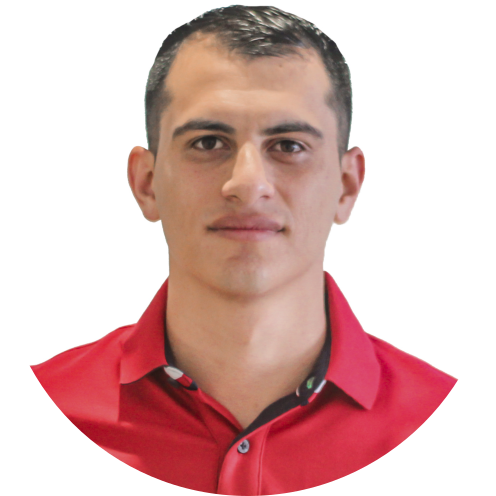
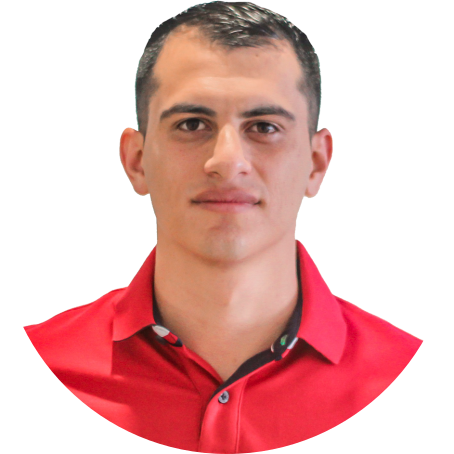
Update photo and certificate ufpso

Changed region(s): [[0.0308, 0.0, 0.9251, 1.0], [0.4626, 0.6476, 0.5242, 0.7093]]

diff --git a/css/style.css b/css/style.css
@@ -1,7 +1,7 @@
 * {
     margin: 0;
     padding: 0;
-    box-sizing: border-box; /*Hace que los valores de las propiedades se sumen para mantener siempre el ancho y el alto*/
+    box-sizing: border-box; 
 }
 
 body {
@@ -12,22 +12,20 @@ h1 {
     font-size: 50px;
 }
 
-/* Espacio de trabajo para menú, foto principal y demás elementos*/
 .contenedor {
-    width: 90%; /* toma  el porcentaje del ancho de la pantalla*/
-    max-width: 1400px; /* establece el ancho máximo de contenedor */
-    margin: auto; /* centra contenedor en la página con el ancho de 1500 */
-    overflow: hidden; /* No permite scroll horizontal en el caso de exceder el ancho de 1500 asignado */
+    width: 90%; 
+    max-width: 1400px; 
+    margin: auto; 
+    overflow: hidden; 
 }
 
-/* pseudoclase para lograr fijar el menú en la pate superior con position fixed */ 
 header::before {
     content: "";
     display: block;
     margin-bottom: 80px;
 }
 
-/* Menú de navegación */
+/* ################################## MENÚ DE NAVEGACIÓN ################################## */
 nav {
     width: 100%;
     height: 80px;
@@ -40,16 +38,15 @@ nav {
 }
 
 .nav {
-    display: flex; /* permita elementos al lado */
+    display: flex;
     height: 80px;
     width: 100%;
     align-items: center; 
-    /* padding: 0 40px; REVISAR BIEN */
 }
 
 .enlaces-header {
     font-weight: 300;
-    margin: auto; /* centra las opciones del menú */
+    margin: auto;
     transition: all ease-in-out .6s;
 }
 
@@ -83,16 +80,11 @@ nav {
     line-height: 80px;
 }
 
-
-
-/* títulos profesionales en la presentación de la foto */
 .titulospro {
-    /* display: block; REVISAR BIEN */
     text-align: left;    
     margin: 20px 0;
 }
 
-/* Imagen de perfil principal */
 .contenido-header {
     width: 80%;
     height: 600px;
@@ -109,8 +101,7 @@ nav {
     animation: ease-in animacion 0.5s; 
     margin-left: 50px;
 }   
-
-/* Animacion para la imagen */  
+ 
 @keyframes animacion {
     0% {
         transform: scale(0);
@@ -121,7 +112,6 @@ nav {
     }
 }
 
-/* Propiedades para el botón de perfil */ 
 .textos-header {
     margin: 0 0 0 30px;
 }
@@ -136,7 +126,7 @@ nav {
 .contenido-header a {
     margin: 28px 0 0 0;
     width: 150px;
-    display: inline-block; /* para asignar propiedades de bloque */
+    display: inline-block;
     background: #d03d3d;
     text-align: center;
     color: white;
@@ -161,15 +151,13 @@ nav {
     background: #f2f2f2;
 }
 
-/* fondo completo de los estudios */
 .content-educacion {
-    display: flex; /* los elementos tomen el espacio disponible para distribuirse */
-    flex-wrap: wrap; /* permitir controlar la direccion de los elementos hijos para que flyan en varias lineas */
+    display: flex; 
+    flex-wrap: wrap; 
     margin-bottom: 50px;
-    justify-content: space-around; /* los elementos repartirán el espacio sobrante de su contenedor de manera equitativa a sus alrededores, creando un espacio también a los bordes*/
+    justify-content: space-around; 
 }
 
-/* cada columna correspondiente a los estudios */
 .articulo {
     width: 23%;
     background: #fff;
@@ -393,9 +381,9 @@ footer {
     background: rgb(70, 70, 70);
     padding: 20px 0;
     padding-top: 30px;
-    overflow: hidden; /* Para evitar que se rompa en caso exceda el tamaño */
-    display: flex; /* un elemento flexible para alterar sus dimensiones y llenar el espacio disponible */ 
-    flex-wrap: wrap; /* permitir controlar la direccion de los elementos hijos */
+    overflow: hidden; 
+    display: flex; 
+    flex-wrap: wrap; 
     justify-content: space-evenly;
     margin: auto;
 }
@@ -466,13 +454,13 @@ footer {
 
 .social-media > a > i {
     font-size: 20px;
-    display: inline-block; /*los elementos block ocupan todo el espacio, inline para que estén seguidos*/
+    display: inline-block; 
     color: #fff;
     border: 1px solid #fff;
-    border-radius: 50%; /* hacerlo redondon */
-    width: 38px; /* hacerlo cuadrado para el efecto de border radius */
-    height: 38px; /* hacerlo cuadrado para el efecto de border radius */
-    line-height: 36px; /* para centrar */
+    border-radius: 50%; 
+    width: 38px; 
+    height: 38px; 
+    line-height: 36px; 
     cursor: pointer;
     margin-top: 20px;
     text-align: center;
@@ -610,13 +598,14 @@ footer {
 
     .contenido-header {
         width: 100%;
-        height: 550px;
+        height: 560px;
     }
 
     .contenido-header>img {
         width: 120px; 
         height: 120px;
         animation: ease-in animacion 0.5s; 
+        margin: 20px 0;
     }  
     
     .articulo, .experience, .certificate, .skills {

diff --git a/index.html b/index.html
@@ -108,7 +108,7 @@
                     <img src="https://unidadestecnicasdelcesar.edu.co/wp-content/uploads/2018/03/logo-utc-mal.png" alt="Logo de la UTC">
                     <h2>UTC Ocaña</h2>
                     <h3>Docente Catedrático, 2019 - 2020</h3>
-                    <p>• Dirigir grupos académicos por area de conocimiento, instruir estudiantes en su formación académica.</p>
+                    <p>• Dirigir grupos académicos por área de conocimiento, instruir estudiantes en su formación académica.</p>
                     <p>• Formar estudiantes con énfasis en el manejo de las Tecnologías de la Información y Comunicación.</p>
                     <p>• Diseñar el sylabus para los docentes del área.</p>
                 </div>                
@@ -293,7 +293,7 @@
                     <img src="img/photofamily.jpeg" alt="Foto Familiar">
                 </div>
                 <div class="space-infoperson element-two">
-                    <p><strong>Wilder Duarte</strong> es un hombre con 31 años de edad, quien se destaca por su personalidad alegre, visionaria, apasionada y valiente, desde el 2016 está casado con una extraordinaria mujer llamada <strong>Anyi Martinez</strong> de 32 años de edad, con quien ha logrado conformar su hermosa familia. <br><br><strong>Celeste y Antonella</strong>, sus dos preciosas hijas son fruto de este amor tan maravilloso donde Dios es el centro, quien les ha permitido lograr muchos objetivos juntos trabajando como equipo.<br><br>Sus <strong>pasatiempos favoritos</strong> son: Salir con su familia, jugar fútbol, leer libros y compartir con sus amigos. Además de eso se caracteriza por su oratoria con fines motivacionales para diferentes públicos.</p>
+                    <p><strong>Wilder Duarte</strong> es un hombre con 31 años de edad, quien se destaca por su personalidad alegre, visionaria, apasionada y valiente, desde el 2016 está casado con una extraordinaria mujer llamada <strong>Anyi Martinez</strong> de 32 años de edad, con quien ha logrado conformar su hermosa familia. <br><br><strong>Celeste y Antonella</strong>, sus dos preciosas hijas son fruto de este amor tan maravilloso donde Dios es el centro, quien les ha permitido lograr muchos objetivos juntos trabajando como equipo.<br><br>Sus <strong>pasatiempos favoritos</strong> son: salir con su familia, jugar fútbol, leer libros y compartir con sus amigos. Además de eso se caracteriza por su oratoria con fines motivacionales para diferentes públicos.</p>
                 </div>
                 <div class="space-infoperson element-three">
                     <img src="img/03.png" alt="">
@@ -334,6 +334,7 @@
             <a href="https://ufpso.edu.co/ofertaufpso/sistemas/Docentes" target="_blank">Docente UFPSO</a>
             <a href="https://revistas.ufps.edu.co/index.php/ingenio/article/view/3603/4303" target="_blank">Artículo de Investigación</a>
             <a href="https://github.com/WilderDuarte/ProgCompetitivaUfpso" target="_blank">Repositorio Prog. Competitiva</a>
+            <a href="docs/Acta de grado - Pregrado.jpg" target="_blank">Tesis Meritoria</a>
         </div>
         <div class="partFooter">
             <h4>Redes Sociales</h4>
